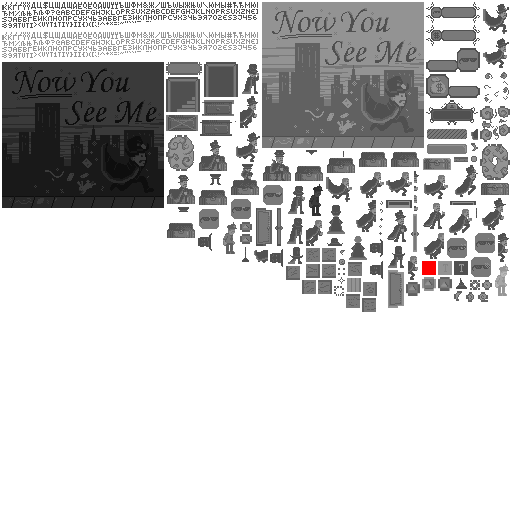
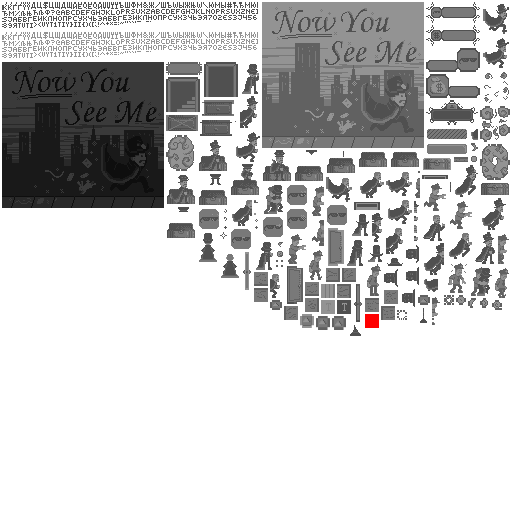
Respawn logic

Changed region(s): [[0.375, 0.3438, 1.0, 0.6562]]

diff --git a/Assets/Resources/Scripts/Enemy.cs b/Assets/Resources/Scripts/Enemy.cs
@@ -41,13 +41,13 @@ public class Enemy : FContainer
         this.world = world;
         enemySprite = new FAnimatedSprite("enemy01");
         enemySprite.addAnimation(new FAnimation("idle", new int[] { 1 }, 200, true));
-        enemySprite.addAnimation(new FAnimation("walk", new int[] { 1, 2 }, 200, true));
-        enemySprite.addAnimation(new FAnimation("chase", new int[] { 2, 3 }, 200, true));
-        enemySprite.addAnimation(new FAnimation("seePlayer", new int[] { 3, 2, 1, 3 }, 200, false));
-        enemySprite.addAnimation(new FAnimation("confusion", new int[] { 3, 1, 3, 1, 3, 1, 3, 1 }, 200, false));
-        enemySprite.addAnimation(new FAnimation("catchPlayer", new int[] { 1, 2, 3, 1, 2, 3 }, 200, false));
-        enemySprite.addAnimation(new FAnimation("enterStairwell", new int[] { 1, 2, 3, 1, 2, 3 }, 200, false));
-        enemySprite.addAnimation(new FAnimation("exitStairwell", new int[] { 1, 2, 3, 1, 2, 3 }, 200, false));
+        enemySprite.addAnimation(new FAnimation("walk", new int[] { 3,4,5,6 }, 200, true));
+        enemySprite.addAnimation(new FAnimation("chase", new int[] { 7,8,9,10 }, 200, true));
+        enemySprite.addAnimation(new FAnimation("seePlayer", new int[] { 2, 2, 2, 2 }, 200, false));
+        enemySprite.addAnimation(new FAnimation("confusion", new int[] { 2,2,2,2,2,2,2 }, 200, false));
+        enemySprite.addAnimation(new FAnimation("catchPlayer", new int[] { 11,12,11,12 }, 200, false));
+        enemySprite.addAnimation(new FAnimation("enterStairwell", new int[] { 13,14,15 }, 200, false));
+        enemySprite.addAnimation(new FAnimation("exitStairwell", new int[] { 16,17,18 }, 200, false));
         enemySprite.play("idle");
         this.AddChild(enemySprite);
     }

diff --git a/Assets/Resources/Scripts/Player/Player.cs b/Assets/Resources/Scripts/Player/Player.cs
@@ -212,7 +212,8 @@ public class Player : FContainer
         Go.to(this, VANISH_DURATION * 2, new TweenConfig().floatProp("x", activatedChest.x).floatProp("y", activatedChest.y + collisionHeight / 3).setEaseType(EaseType.CircInOut).onComplete((a) =>
         {
             this.addCash(-cashCounter.actualValue / 2);
-            tryMoveDown(-.1f); currentState = State.SPAWNING; activatedChest.spawnPlayer();
+            isFacingLeft = false;
+            tryMoveDown(-.1f); currentState = State.SPAWNING; activatedChest.spawnPlayer(this);
         }));
     }
 
@@ -225,7 +226,8 @@ public class Player : FContainer
             this.y = activatedChest.y;
             tryMoveDown(-.1f);
             this.isVisible = false;
-            activatedChest.spawnPlayer();
+            isFacingLeft = false;
+            activatedChest.spawnPlayer(this);
         }
         else
             throw new Exception("No Activated Chest");
@@ -437,11 +439,6 @@ public class Player : FContainer
             case State.VANISHING:
                 return;
             case State.SPAWNING:
-                if (!C.isSpawning)
-                {
-                    currentState = State.IDLE;
-                    this.isVisible = true;
-                }
                 return;
             case State.ENDING_LEVEL:
                 return;
@@ -645,6 +642,15 @@ public class Player : FContainer
                 hasLeftMarkPos = true;
 
         updateWorld();
+    }
+
+    public void stopSpawning()
+    {
+        this.isVisible = true;
+        currentState = State.IDLE;
+        playerSprite.isVisible = true;
+        playerSprite.play("hat_idle", true);
+        playerSprite.scaleX = 1;
     }
 
     private string getHatAnimPrefix()

diff --git a/Assets/Resources/Scripts/Objects/Chest.cs b/Assets/Resources/Scripts/Objects/Chest.cs
@@ -36,8 +36,9 @@ public class Chest : InteractableObject
         interactSprite.play("uninteractable");
     }
 
-    public void spawnPlayer()
+    public void spawnPlayer(Player p)
     {
+        this.p = p;
         C.isSpawning = true;
         Futile.instance.SignalUpdate += Update;
         interactSprite.play("spawnPlayer", true);
@@ -47,6 +48,7 @@ public class Chest : InteractableObject
     {
         if (interactSprite.IsStopped)
         {
+            p.stopSpawning();
             C.isSpawning = false;
             interactSprite.play("uninteractable", true);
             Futile.instance.SignalUpdate -= Update;
